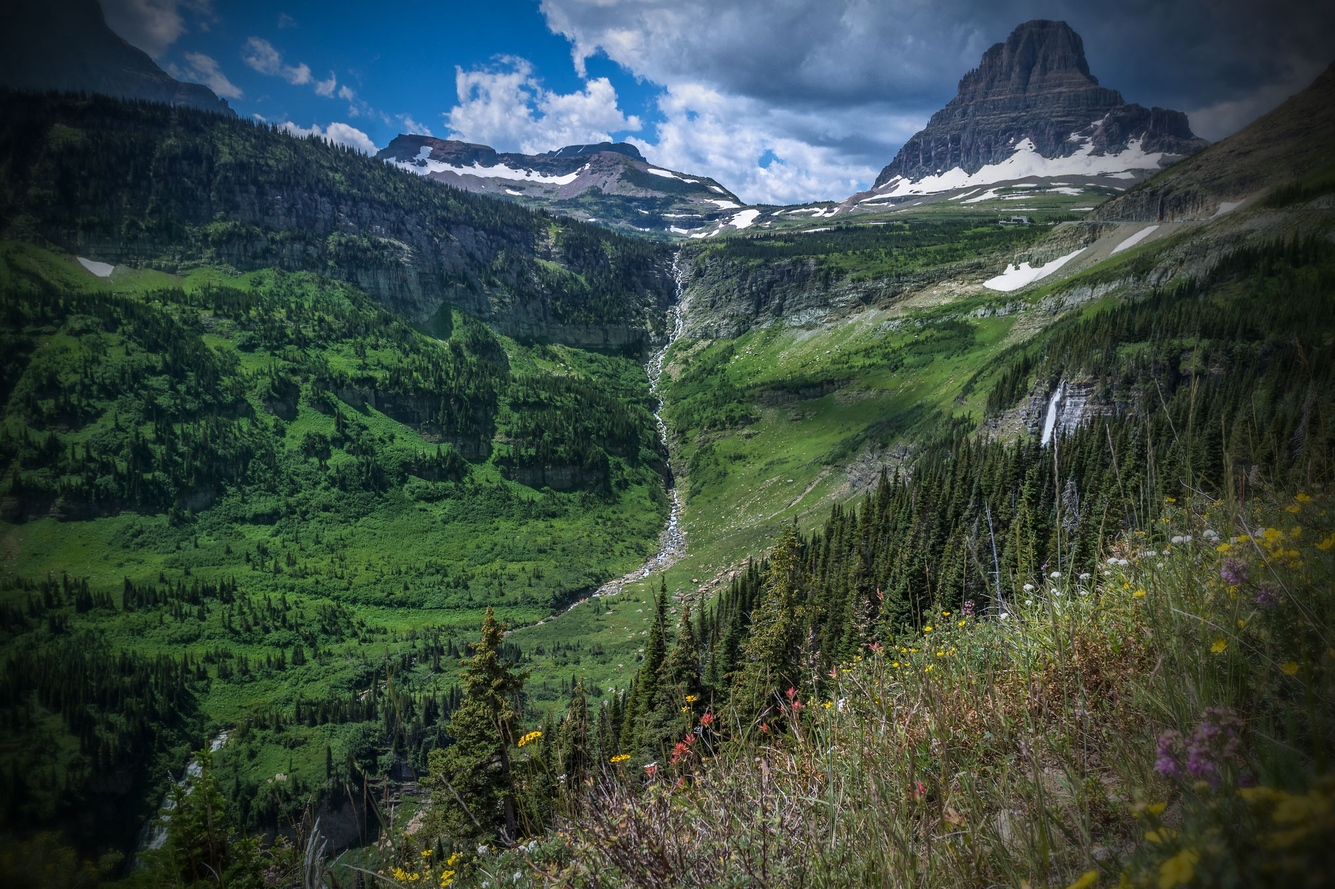
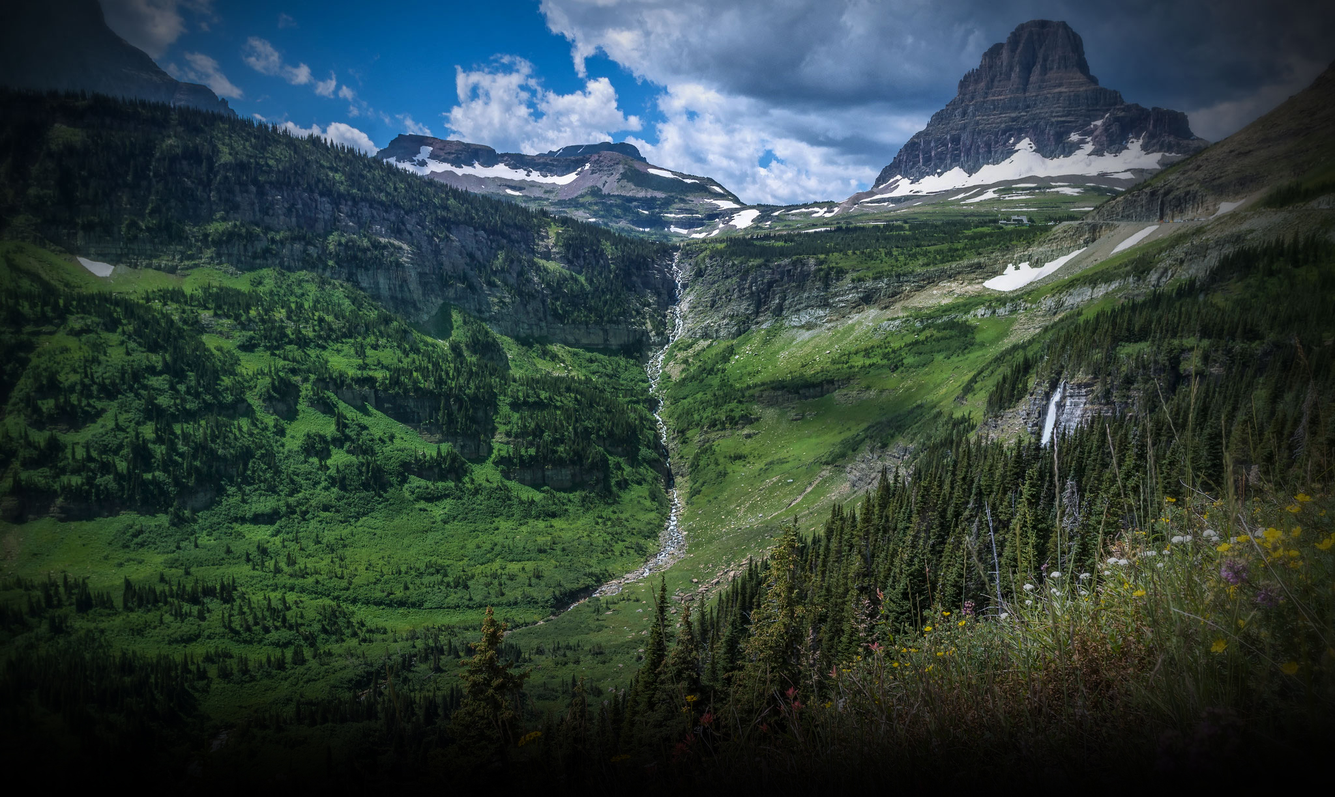
Uploaded Embeded Map

diff --git a/Assignment_12/contact.html b/Assignment_12/contact.html
@@ -1,0 +1,58 @@
+<!DOCTYPE html>
+<html lang="en">
+<head>
+  <Title>Assignment 12</title>
+
+  <!-- Character setting -->
+  <meta charset="UTF-8">
+
+  <!-- Description of page -->
+  <meta name="description" content="Assignment 12">
+
+  <!-- Author information -->
+  <meta name="author" content="Stefani Reinhardt">
+
+  <!-- Other meta elements -->
+  <meta name="viewport" content="width=device-width, initial-scale=1.0">
+
+ <link href="./css/fonts.css" type="text/css" rel="stylesheet" />
+ <link href="./css/style.css" type="text/css" rel="stylesheet" />
+
+</head>
+
+  <body>
+<div class="nav-bar">
+<h1>Park Visitor's Center</h1>
+        <nav class="nav">
+         <ul>
+           <li><a href="index.html">Home</a></li>
+           <li><a href="about.html">About</a></li>
+           <li><a href="contact.html">Contact</a></li>
+           <li><a href="gallery.html">Gallery</a></li>
+         </ul>
+        </nav>
+</div>
+
+<div class="image">
+<img src="./images/logan-pass.jpg" alt="Logan Pass Photo" title="Logan Pass Pic" width=100% />
+</div>
+
+<div class="container">
+  <h2>Contact</h2>
+  </div>
+
+<div class="framed-element">
+      <p>Lorem ipsum dolor sit amet, consectetur adipiscing elit, sed do eiusmod tempor incididunt ut labore et dolore magna aliqua. Porttitor massa id neque aliquam vestibulum morbi blandit. Sed augue lacus viverra vitae congue eu consequat. Ac tortor dignissim convallis aenean et tortor at risus viverra. Turpis tincidunt id aliquet risus feugiat in ante metus. Lorem ipsum dolor sit amet, consectetur adipiscing elit, sed do eiusmod tempor incididunt ut labore et dolore magna aliqua. Porttitor massa id neque aliquam vestibulum morbi blandit. Sed augue lacus viverra vitae congue eu consequat. Ac tortor dignissim convallis aenean et tortor at risus viverra. Turpis tincidunt id aliquet risus feugiat in ante metus.</p>
+
+      <h3>Contact Park Visitor's Center</h3>
+
+      <p>1234 Glacier Drive | West Glacier | MT | 59936</p>
+      <h3>406.888.7800</h3>
+
+      <iframe src="https://www.google.com/maps/embed?pb=!1m18!1m12!1m3!1d2642.529541989622!2d-113.99065844886208!3d48.523082679154264!2m3!1f0!2f0!3f0!3m2!1i1024!2i768!4f13.1!3m3!1m2!1s0x5366175b53df0a43%3A0xbd350355b9654b53!2sApgar%20Visitor%20Center!5e0!3m2!1sen!2sus!4v1592349703090!5m2!1sen!2sus" width="500" height="350" frameborder="0" style="border:0;" allowfullscreen="" aria-hidden="false" tabindex="0"></iframe>
+
+    </div>
+
+   </body>
+
+    </html>
